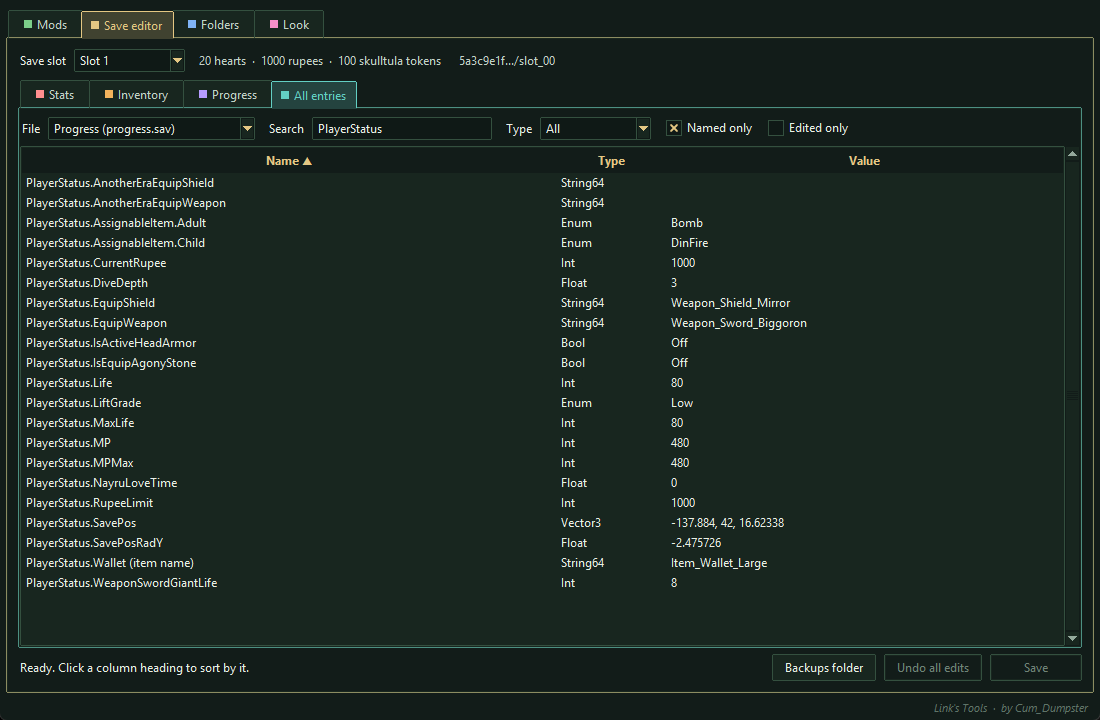
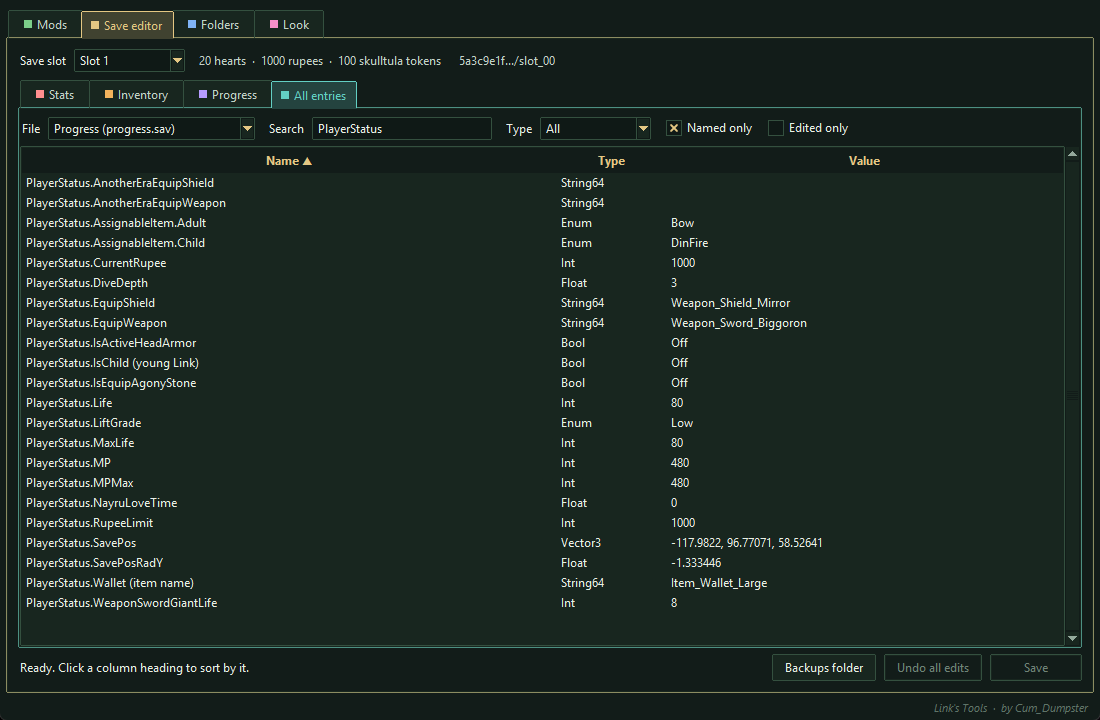
Switch Link between young and adult in the save editor
Stats tab, under the Full buttons: shows the slot's age and switches it.
A save keeps the age in the map Link is saved on (Sequence_CurrentBanc,
e.g. KakarikoVillage_Child / _Adult; found by watching the game's live save
table while switching): the button moves him to the other age's map, with
the file-select screen's map and the "is a child" flag. Dungeons and houses
share one map between ages, so it asks to save outside first. Tested in the
game.

diff --git a/oot_catalog.py b/oot_catalog.py
@@ -145,6 +145,26 @@ MAGIC_METERS = ((0, 'No magic meter', ()),
 
 PICTURE = 0x63696A32     # caption.sav: the picture taken when the slot was saved (a JPEG)
 
+# -- Link's age (found by saving one slot as adult, then as child, and comparing; unnamed in the game files)
+IS_CHILD = 0x46080375            # on: young Link (the game writes it; the map below is what decides his age)
+# the map Link is saved on. Outdoors each area has a young and an adult map ("KakarikoVillage_Child" / "_Adult"):
+# the game loads that map, and its version is what makes Link young or adult. Dungeons have one map for both ages.
+CURRENT_MAP = 'Sequence_CurrentBanc'               # progress.sav: "KakarikoVillage_Adult"
+CAPTION_MAP = 0x0CCCC6CD                           # caption.sav: "KakarikoVillage/KakarikoVillage_Adult"
+BOTH_AGES = ('DeathMountainCrater', 'DeathMountainTrail', 'DesertColossus', 'GerudoValley', 'GoronCity', 'Graveyard',
+             'HountedWasteland', 'HyruleField', 'KakarikoVillage', 'KokiriForest', 'LostWood', 'Market',
+             'SacredForestMeadow', 'ZoraDomain', 'ZoraFountain', 'ZoraRiver')   # (the game files' Banc folder)
+
+
+def other_age_map(name, to_child):
+    """The other age's version of a map name ("KakarikoVillage_Adult" -> "KakarikoVillage_Child"), or None when the
+    map has no version for that age (a dungeon, a house, Gerudo Fortress)."""
+    import re
+    m = re.match(r'^(.*?)([A-Za-z0-9]+)_(Child|Adult)(\b.*)$', name or '')
+    if not m or m.group(2) not in BOTH_AGES:
+        return None
+    return f'{m.group(1)}{m.group(2)}_{"Child" if to_child else "Adult"}{m.group(4)}'
+
 # -- rupees
 RUPEES, CAPTION_RUPEES = 'PlayerStatus.CurrentRupee', 'CaptionData.CurrentRupee'
 WALLET_NAME = 0x3E42AFFA      # the wallet's item name (text)
@@ -203,6 +223,8 @@ EXTRA_NAMES = {
     WALLET_NAME: 'PlayerStatus.Wallet (item name)',
     RUPEE_LIMIT: 'PlayerStatus.RupeeLimit',
     PICTURE: 'CaptionData.Picture (JPEG)',
+    IS_CHILD: 'PlayerStatus.IsChild (young Link)',
+    CAPTION_MAP: 'CaptionData.Banc (the map, for the file-select screen)',
     174442925: 'PouchData.SUAx',
     2269937364: 'Progress ID',
 }

diff --git a/README.md b/README.md
@@ -45,12 +45,14 @@ Pick a save slot. Each slot shows its summary and the picture the game took when
 
 | Tab | What you can do |
 |---|---|
-| **Stats** | Hearts (in quarter steps) and heart containers; magic meter and magic; wallet and rupees; bag and quiver sizes; ammo and counts; the five bottles and their contents; small keys for every dungeon. Quick buttons: Full hearts, Full magic, Full wallet, Fill all, All keys. |
+| **Stats** | Hearts (in quarter steps) and heart containers; magic meter and magic; wallet and rupees; **switch Link between young and adult**; bag and quiver sizes; ammo and counts; the five bottles and their contents; small keys for every dungeon. Quick buttons: Full hearts, Full magic, Full wallet, Fill all, All keys. |
 | **Inventory** | All 104 items by their in-game names, with group and usual age. Give or take away items, pick several at once, or give everything missing. Won't take away equipped items. |
 | **Progress** | More than 6,000 story flags (events, talks and Navi hints, dungeons, places, items found, mini-games...), searchable and filtered by group and state. |
 | **All entries** | Every value in the slot's files, for advanced editing. |
 
 Every list sorts by any column: click the heading, and click again to reverse.
+
+**Switching age:** a save keeps Link's age in the map he's saved on. Outdoors, each area has a young and an adult map (`KakarikoVillage_Child` and `KakarikoVillage_Adult`), so **Switch to adult / young** moves him to the other age's map, together with the file-select screen and the save's "is a child" flag. Dungeons and houses have one map for both ages, so the editor asks you to save outside first.
 
 **Stats**: hearts, magic, rupees, ammo, bottles, keys, bags and the slot picture
 
